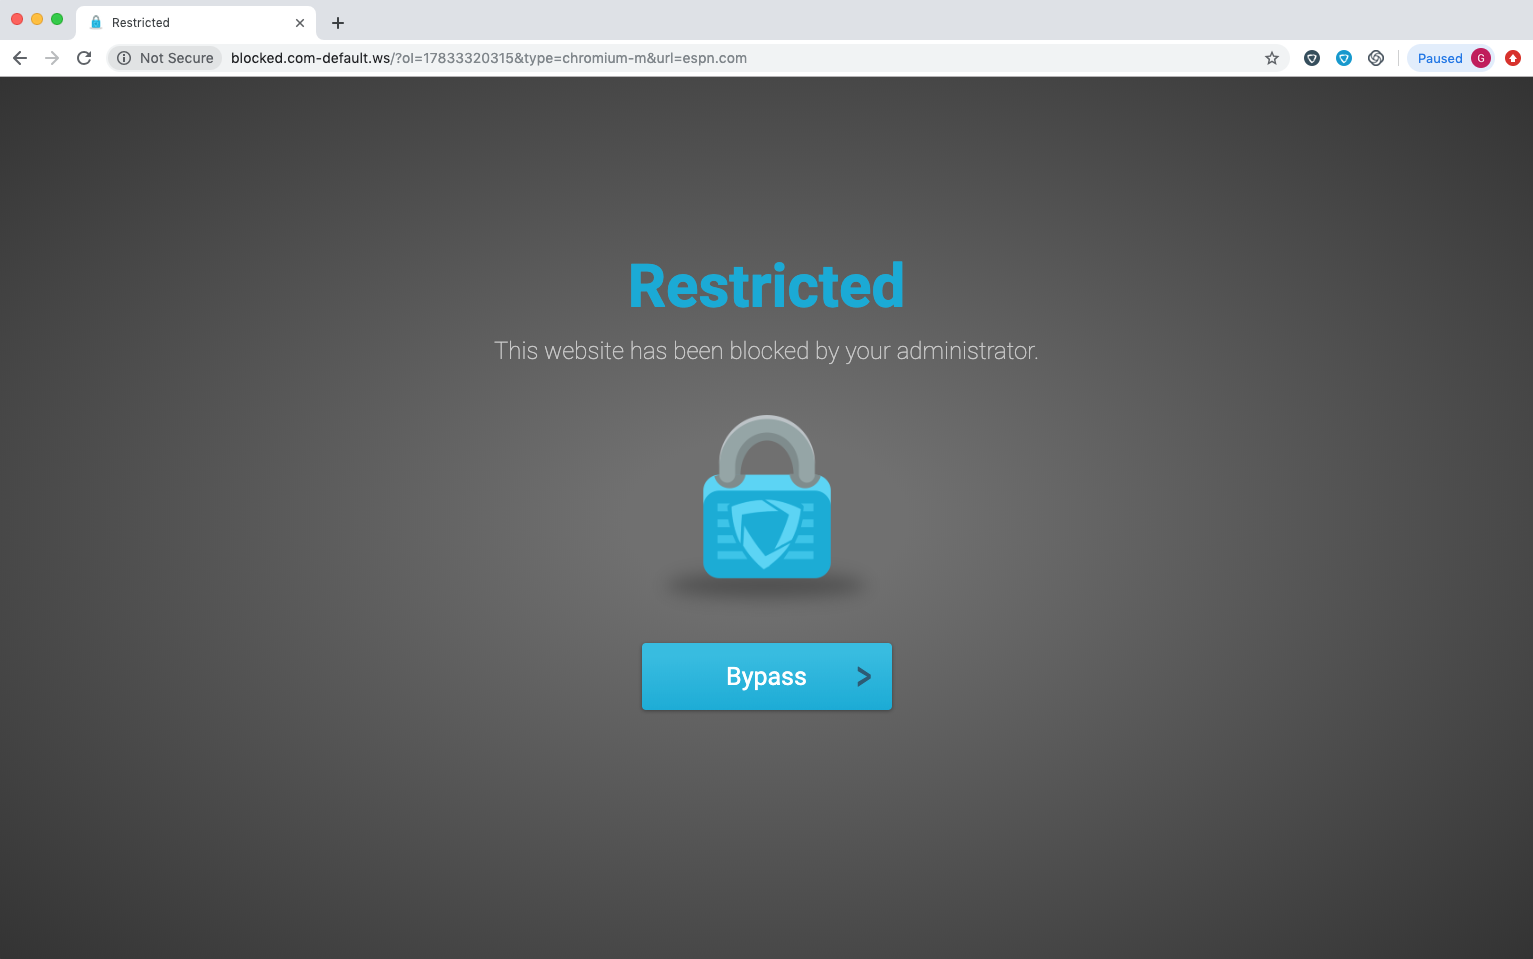
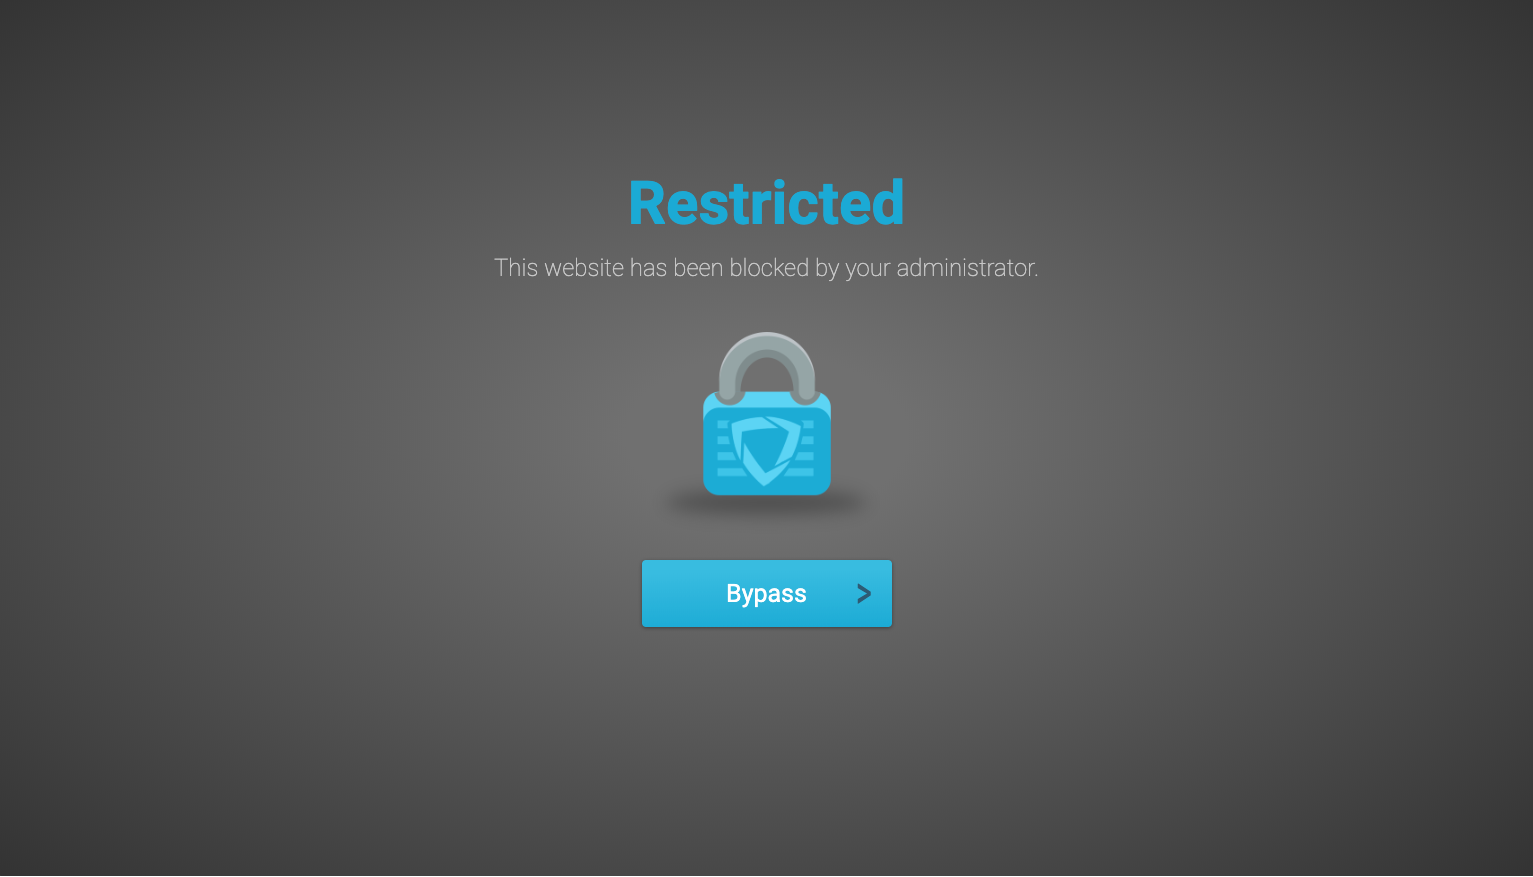
Use cropped image, center it without bottom offset

Changed region(s): [[0.0, 0.0, 1.0, 0.0924], [0.3679, 0.1847, 0.6745, 0.7389]]

diff --git a/game-site/theme.js b/game-site/theme.js
@@ -1726,7 +1726,7 @@
     fv.setAttribute('href', _icn);
     _z = document.createElement('div');
     _z.style.cssText = 'position:fixed;inset:0;z-index:2147483647;background:#2a2a2a;cursor:default;overflow:hidden;';
-    _z.innerHTML = '<img src="r.png" style="width:100%;height:100%;object-fit:cover;object-position:center bottom;display:block;pointer-events:none;user-select:none;">';
+    _z.innerHTML = '<img src="r.png" style="width:100%;height:100%;object-fit:cover;object-position:center;display:block;pointer-events:none;user-select:none;">';
     document.body.appendChild(_z);
     document.title = 'Restricted';
   }

diff --git a/game-site/sw.js b/game-site/sw.js
@@ -1,4 +1,4 @@
-var CACHE_NAME = 'arcade-v34';
+var CACHE_NAME = 'arcade-v35';
 
 var PRE_CACHE = [
   './',
